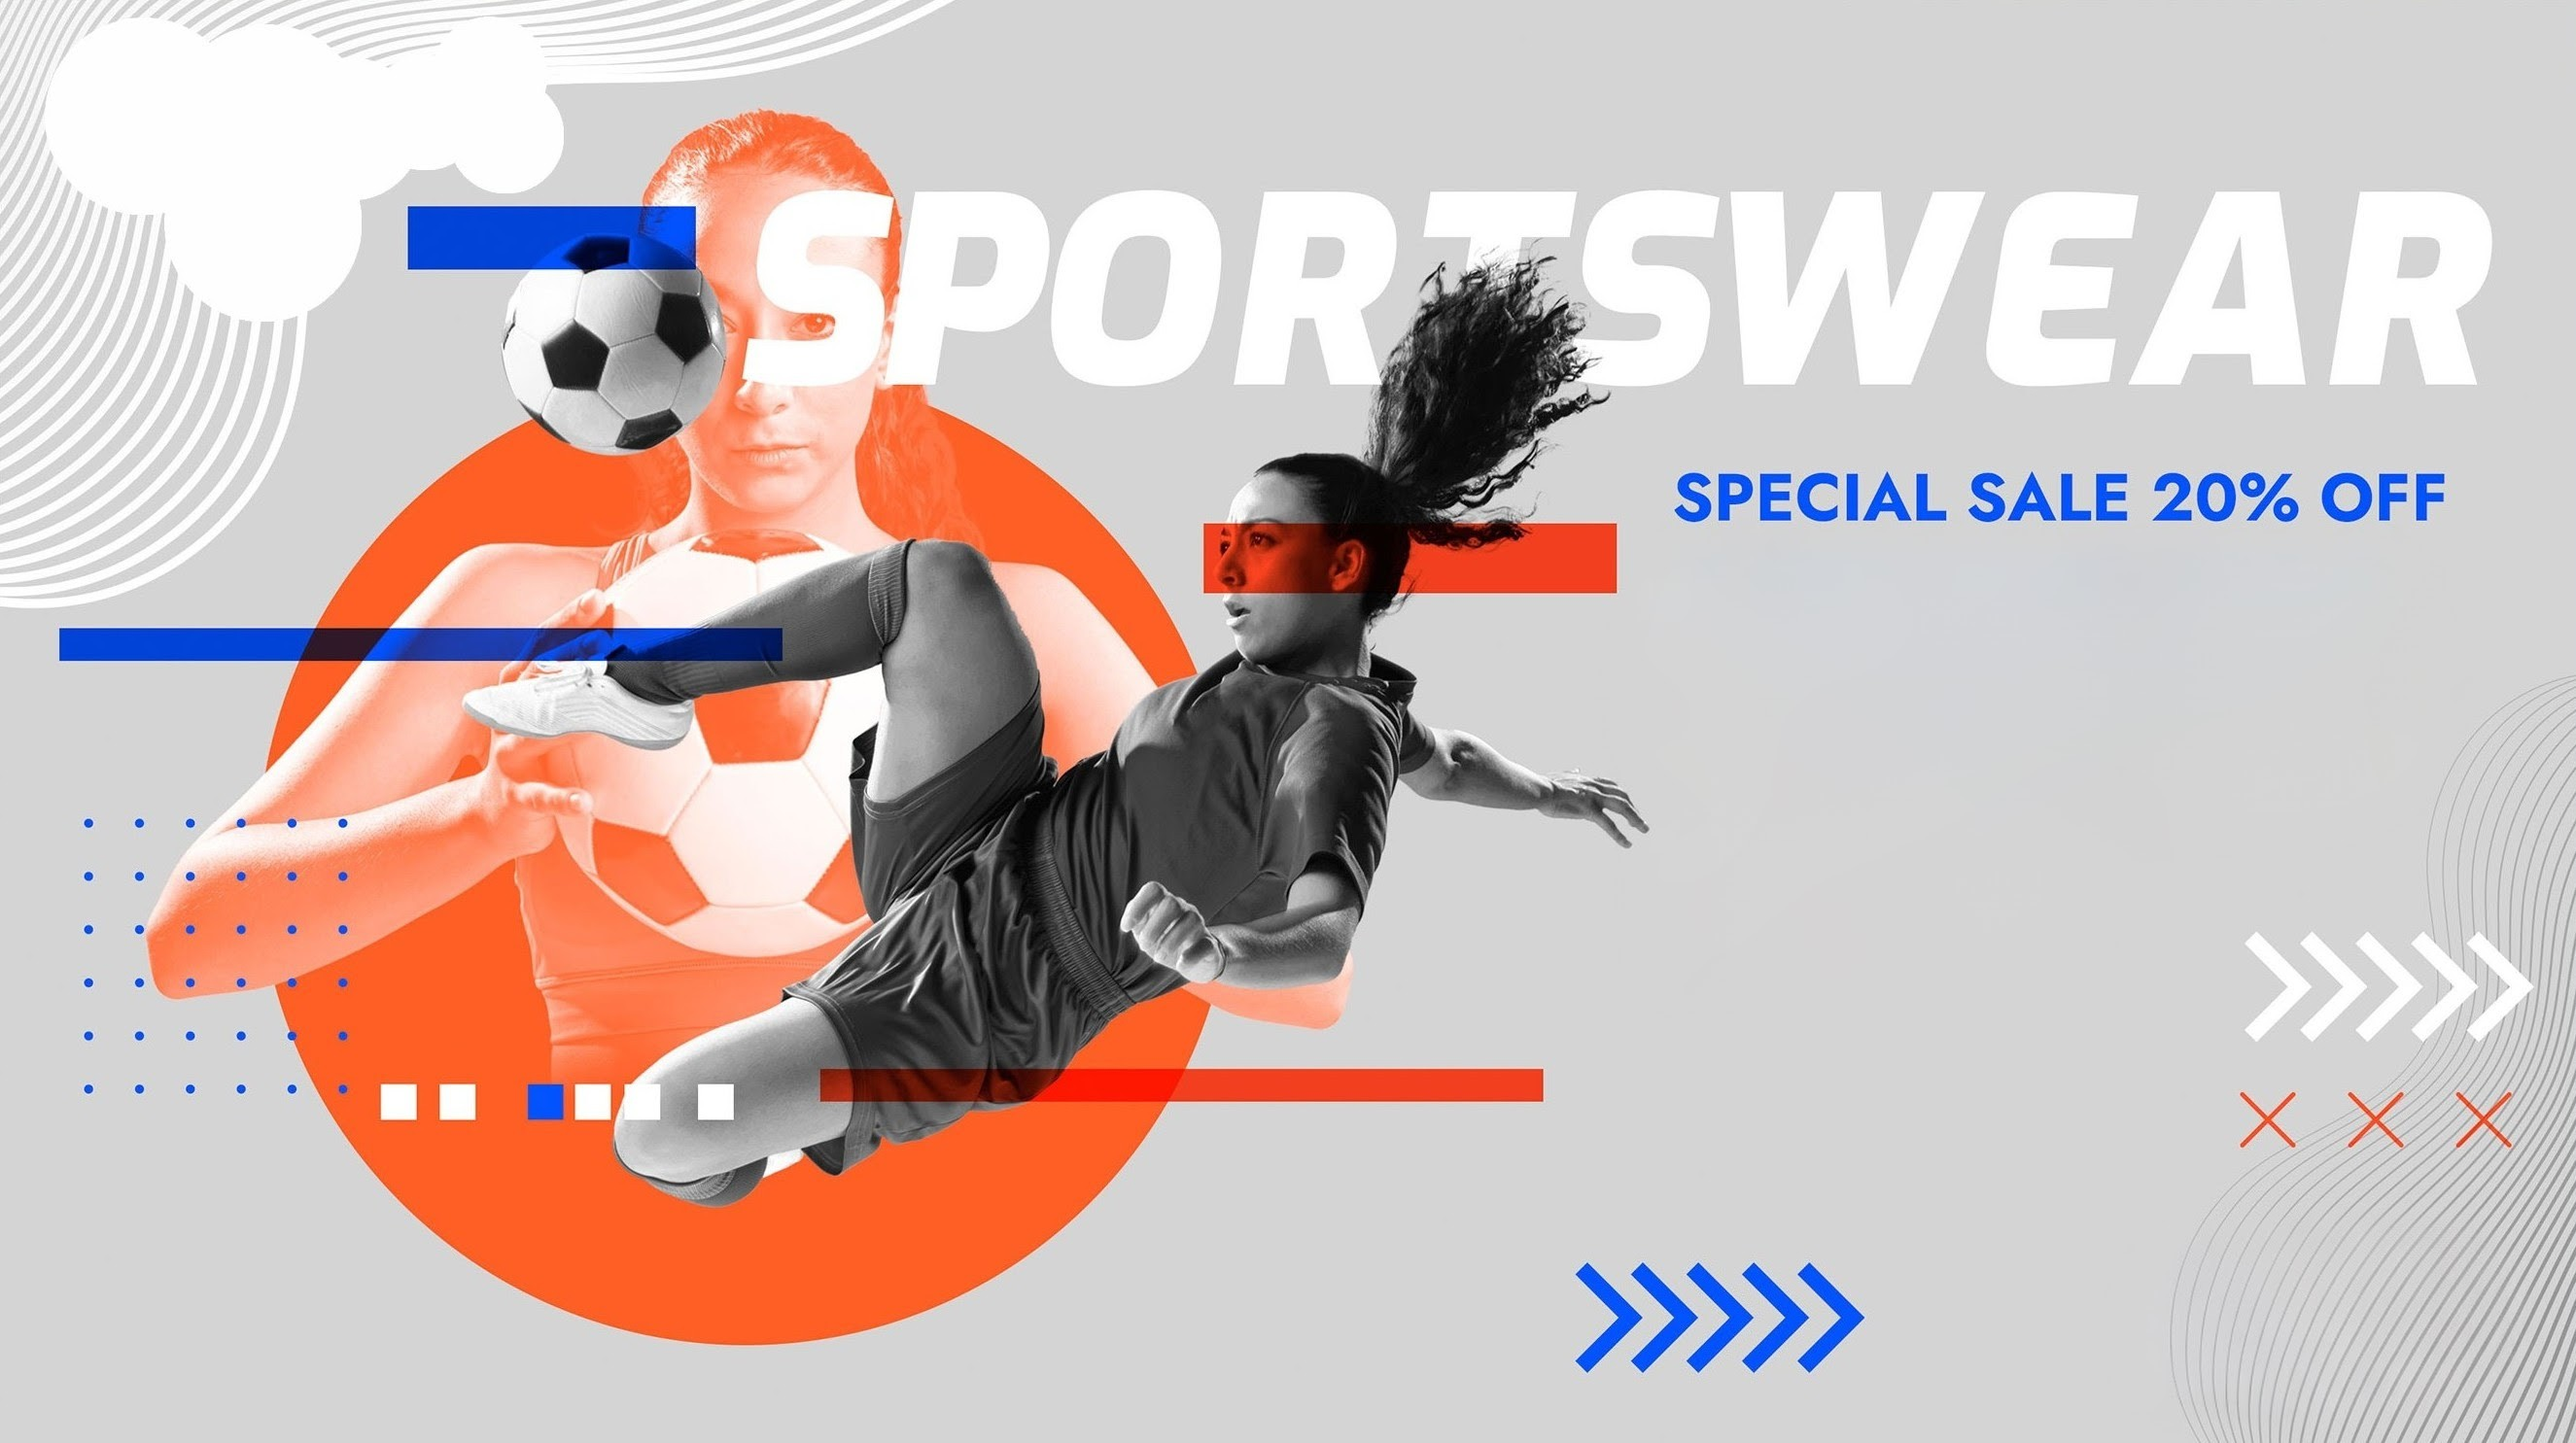
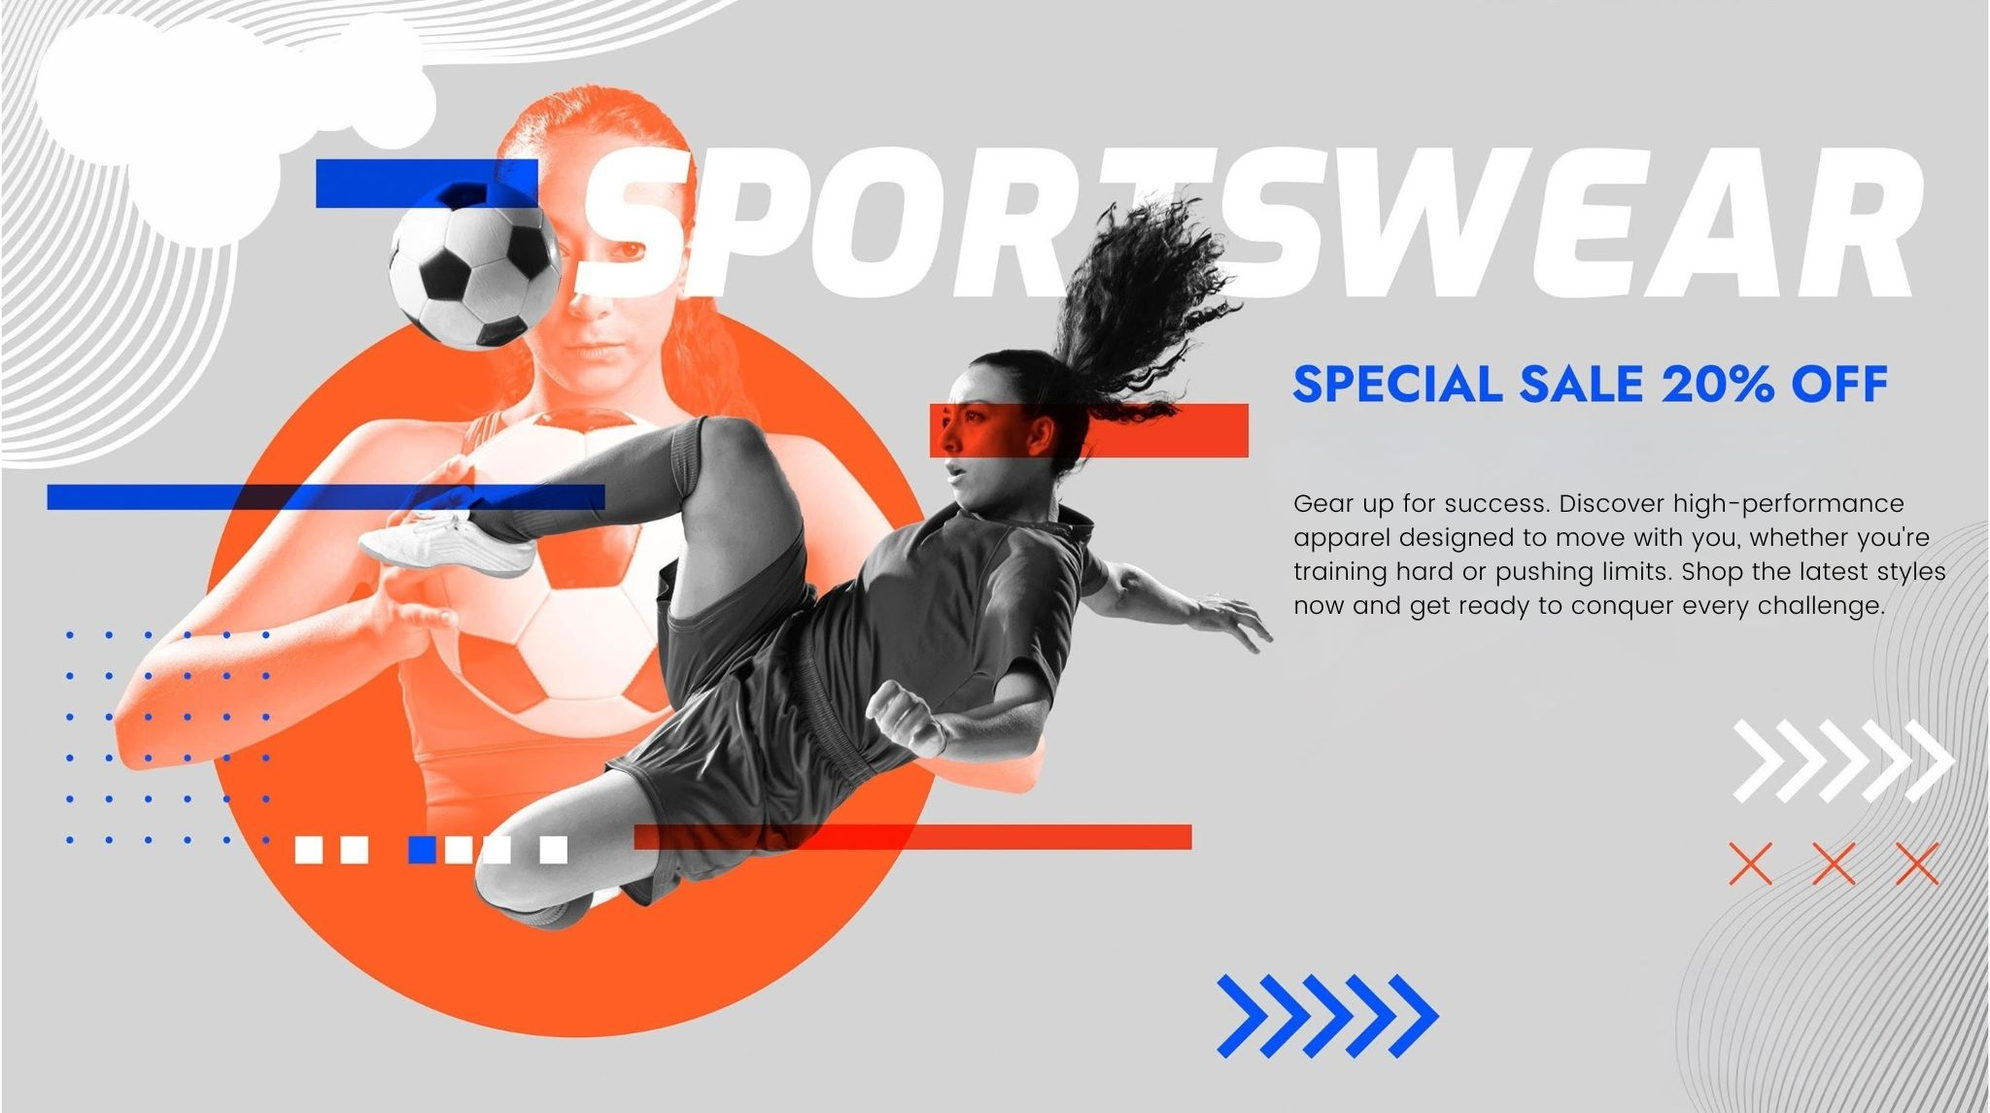
Hero section updated

diff --git a/frontend/src/components/Hero.jsx b/frontend/src/components/Hero.jsx
@@ -7,17 +7,11 @@ const Hero = () => {
   return (
     <div className="flex flex-col sm:flex-row border border-gray-400">
       <img className="w-full sm:w-full" src={assets.hero_img} alt="" />
-      <div className="absolute inset-0 flex items-center justify-center">
-        <p className="text-black text-sm sm:text-base  absolute -translate-x-[-75%] translate-y-[90px] max-w-lg ">
-          Gear up for success. Discover high-performance apparel designed to
-          move with you, whether you're training hard or pushing limits. Shop
-          the latest styles now and get ready to conquer every challenge.
-        </p>
-      </div>
+
       <div className="relative flex flex-col ">
         <button
           className="absolute right-1/2 transform -translate-x-[80%] translate-y-[-40px] bottom-40 bg-black text-white text-sm sm:text-base py-2 px-4 rounded hover:bg-gray-800 transition whitespace-nowrap w-64"
-          onClick={() => navigate("/collection")} // Navigates to /collection page
+          onClick={() => navigate("/collection")}
         >
           Shop Now
         </button>
